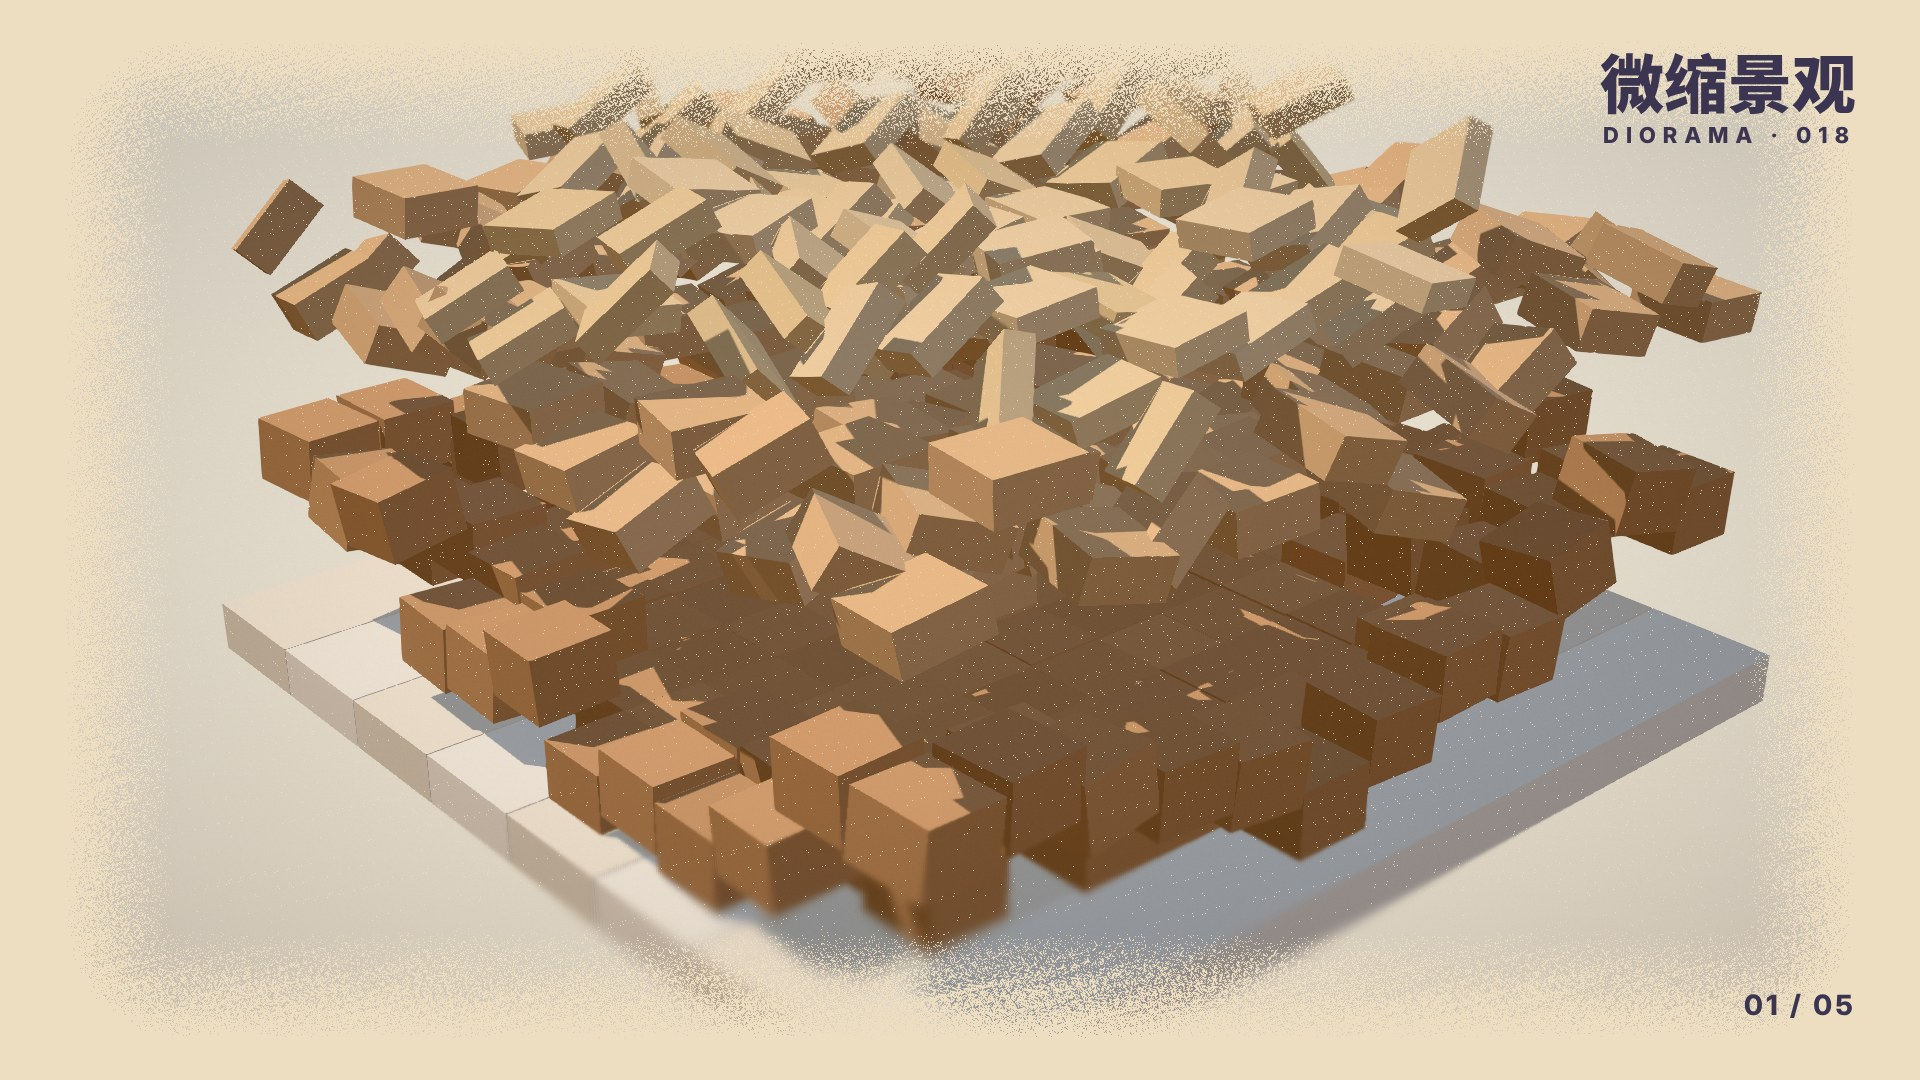
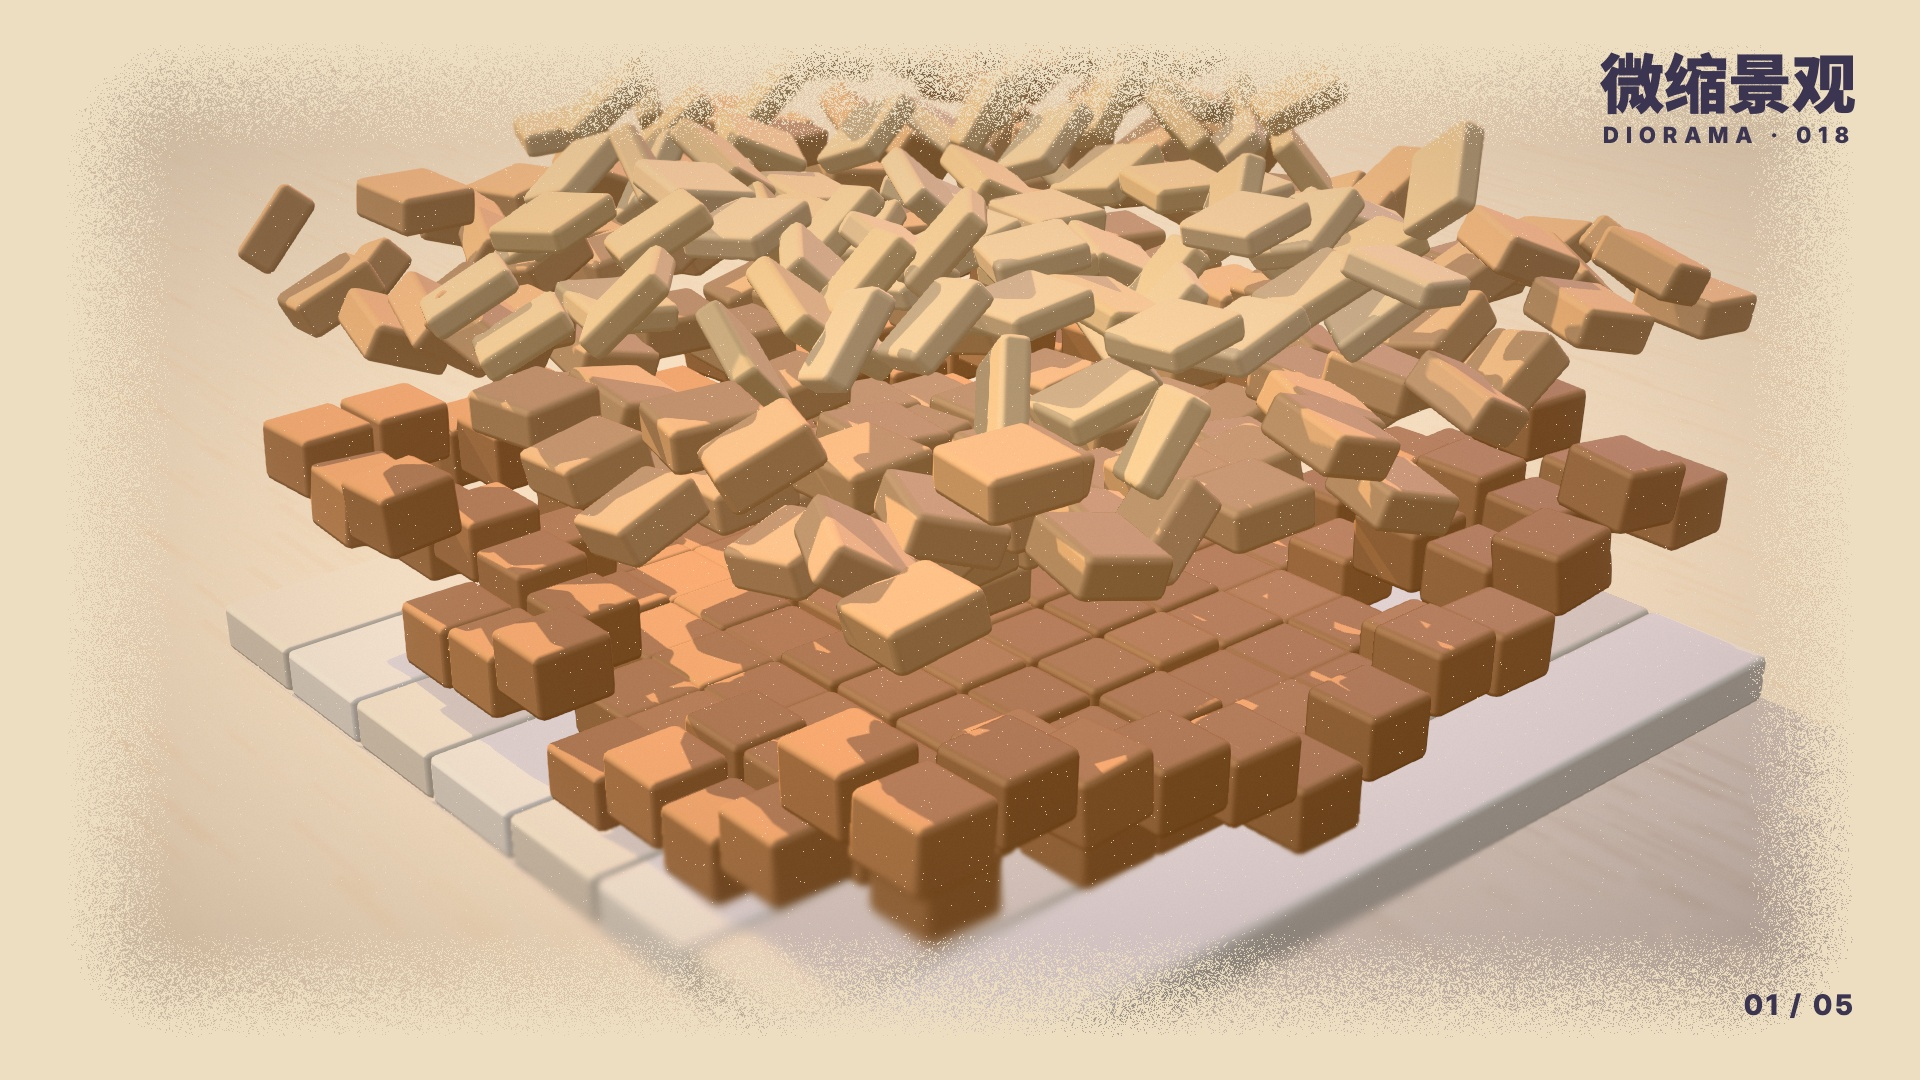
release(018): 准备第三版 60fps 成片与发布入口，保留审片对照待办

diff --git a/docs/reviews/PUBLISH_018_V3_20261102.md b/docs/reviews/PUBLISH_018_V3_20261102.md
@@ -1,0 +1,40 @@
+# 018 微缩景观第三版 · 60fps 渲染与发布记录 · 2026-11-02
+
+## 当前状态
+
+用户明确要求按 `docs/HANDOFF.md` 渲染 60fps 正片并发布 `day-18-v3`。渲染、合成与本地验证已完成；发布包准备中。云端第三版 30fps 审片文件尚未定位，交接要求的原审片文件同秒对照尚未完成。Release 和线上画廊尚未切换，018 待办保留。
+
+## 设计与渲染来源
+
+- 设计来源为 `1606f5c9d10a1f46e67cba1daea1b5aff9f51e46`（`claude/diorama-audio-style-polish-cppqt4`）。本次不修改设计、动画、渲染器或配乐代码。
+- 使用独立工作区，保留主工作区既有未提交修改与创作文件。
+- 通过锁文件安装 Three.js 0.170.0，复用本机 Playwright；字体使用项目声明的 Noto Sans SC 与 Inter。冒烟发现本机缺少 `Inter.ttf`，从项目字体脚本声明的 Google Fonts 来源补齐后重新渲染。新字体仅位于独立工作区。
+- Chromium 实测后端：`ANGLE (Apple, ANGLE Metal Renderer: Apple M5, Unspecified Version)`。
+- `PR=1`、1920×1080、60fps，四个进程分段生成 0—1199 帧；四份 `events.json` 完全一致，日志无页面异常。
+- 使用原 `audio/make_music.py` 和原事件表生成配乐，WAV 为 48kHz 立体声、20 秒，脚本报告 −15.00 LUFS。
+- 按交接参数合成 H.264 / CRF 16 / yuv420p + AAC 256k；无插帧、无调速。
+
+## 成片与检查
+
+- `018-diorama.mp4`：59,232,690 字节，1920×1080、60fps、1200 帧、20 秒，H.264 + AAC、48kHz 立体声。
[1 lines of base64/hex data omitted]
+- FFmpeg 完整解码 1200 帧通过，未检出黑屏段；AAC 解码响度 −15.3 LUFS、真峰值 −1.1 dBTP。
+- 已查看全片 12 张静帧联系表与第 0 帧原尺寸图，封面来自新版第 0 帧；`video/cover.jpg` 与 `video3d/cover.jpg` 字节一致。
+- 内置独立浏览器实际播放至 20 秒结束，1920×1080、20 秒，无媒体错误；英文切换保留影片，英文指南显示 60fps / 1200 帧 / 风格 010。
+- 两项屋面深度与重复电线几何回归通过。根目录 42 项 Node 测试通过（画廊 24、安全 8、动效 10）。
+- 新媒体本地画廊构建与发布检查通过：13 期、183 个文件、1988 个站内引用、441.6 MiB。初次使用符号链接缓存被发布检查拒绝，换成普通文件后通过，未修改发布检查规则。
+
+## 30fps 对照与边界
+
+`origin/review-renders/018` 当前仍为 `68c9191` 的首版（SHA-256 `1ab674…3c29`），不能用作第三版审片参考；GitHub Actions 没有第三版审片附件。已向用户请求第三版审片文件或下载链接。
+
+另从同一设计提交在本机使用 SwiftShader 渲染 30fps 的 0、3、6、9、12、15、18、19.5 秒样帧，与 Metal 60fps 对应帧对照。事件表一致，观察到的场景、镜头与文字位置一致；像素差主要集中在后期纸屑边缘、颗粒与阴影。8 帧 RGB 平均绝对差为 0.7263—11.2927 / 255。这是同源代码的后端抽样检查，不是云端已审成片对照，也不是全片像素一致证明。
+
+原始帧、事件表、渲染与编码日志、FFprobe、完整解码日志、后端差异指标和联系表保存在本工作区 `out/day-18-v3/`，不进入公开源码包。
+
+## 发布准备
+
+- tokens 的 motion / video 同步为 60fps / 1200 帧，时间轴分段与文字帧号换算为 60fps，章节秒数保持 0、4.2、7.8、11.2、14.2、16.4。
+- 本地目录准备切到 `day-18-v3` 与新成片 SHA-256，保留「风格 010」，说明改为第三版缓推房间的结尾；实际发布时间待 Release 创建后填入。
+- 中英文根目录、本期指南与制作过程准备使用新 Release 链接，渲染复现命令对齐 60fps；旧 `day-18-flicker-v2` 保留回退。
+- 待完成：云端审片文件对照、完整源码包核验、`release-assets/day-18-v3/` 推送与 Release 校验、画廊真实发布时间与部署核验、关闭本项交接。

diff --git a/styles/018-diorama/README.md b/styles/018-diorama/README.md
@@ -4,7 +4,7 @@
 
 > **一句话：** 把世界切成一块底座，一块块搭出来，再用移轴把它变小。
 
-🎬 [看视频（Release `day-18-flicker-v2`）](https://github.com/guanmo-ai/design-style/releases/tag/day-18-flicker-v2)· 🛠 [制作过程](PROCESS.md) · 🎞 [分镜](video3d/STORYBOARD.md)
+🎬 [看视频（Release `day-18-v3`）](https://github.com/guanmo-ai/design-style/releases/tag/day-18-v3)· 🛠 [制作过程](PROCESS.md) · 🎞 [分镜](video3d/STORYBOARD.md)
 
 | 海报 | 速查卡 |
 |:-:|:-:|
@@ -69,9 +69,9 @@
 
 ## 5 · 参数
 
-**已发布视频：1920×1080 · 30fps · 600 帧 · 20 秒 · 120 BPM，three.js 渲染。**
+**已发布视频：1920×1080 · 60fps · 1200 帧 · 20 秒 · 120 BPM，three.js 渲染。**
 
-`tokens.json` 与 `process/timeline.json` 记录发布版规格；60fps 可按下方命令另行渲染。
+`tokens.json` 与 `process/timeline.json` 记录 60fps 发布版规格，复现命令见下方。
 - 镜头：长焦 fov 20—24°，俯视约 30°，每章是桌上同一排底座里的下一块，镜头横移过去；镜头走单调三次样条，经过关键帧时速度连续（不再一停一顿）
 - 造型：所有方块是圆角（半径取短边的 28%，最大 0.14）、平滑着色；树冠、灌木、云是一团团软球；小人头大身小。三块底座放在一张铺了纸的桌子上
 - 光（电影布光）：低角度暖色主光拉出长影子 + 冷色天光 + 背后粉色轮廓光 + 摄影棚环境贴图；GTAO 环境光遮蔽（底座搭好后才打开）；入夜 bloom 加强，暖色的窗、小彩灯、路灯成为最亮的东西
@@ -179,13 +179,12 @@ npm run fonts
 
 **渲染命令（从项目根目录开始）：**
 ```bash
-cd styles/018-diorama/video3d && npm i                      # 装 three 0.170
-PR=1 node render.cjs episode.html out 0 599 1920 1080 30    # 30fps 正片（默认 SwiftShader）
-ANGLE_BACKEND=metal PR=1 node render.cjs episode.html out 0 599 1920 1080 30  # Mac GPU，同一画幅与时间轴
+cd styles/018-diorama/video3d && npm ci --ignore-scripts   # 锁定 three 0.170.0
 node --test geometry.test.mjs                            # 屋面深度与重复电线回归检查
-PR=1 node render.cjs episode.html out 0 1199 1920 1080 60   # 60fps（建议用有显卡的机器）
+ANGLE_BACKEND=metal PR=1 node render.cjs episode.html out 0 1199 1920 1080 60  # Mac GPU，60fps 正片
+# 无 Metal 的机器移除 ANGLE_BACKEND=metal，默认使用 SwiftShader；画幅与时间轴相同。
 python3 ../audio/make_music.py out/events.json out/music.wav
-ffmpeg -framerate 30 -i out/f%04d.png -i out/music.wav -c:v libx264 -crf 16 -pix_fmt yuv420p -c:a aac -b:a 256k -shortest 018.mp4
+ffmpeg -framerate 60 -i out/f%04d.png -i out/music.wav -c:v libx264 -crf 16 -pix_fmt yuv420p -c:a aac -b:a 256k -shortest 018-diorama.mp4
 ```
 
 **延伸阅读：** Miniatur Wunderland 官网的“建造日记” · Olivo Barbieri《site specific_》系列 · Vincent Laforet《Tilt-Shift》航拍 · Oskar Stålberg 谈《Townscaper》的程序生成（GDC 2020）

diff --git a/README.md b/README.md
@@ -131,7 +131,7 @@ by 观默 [@guanmo_ai](https://x.com/guanmo_ai)
 | **009** | [**新粗野主义 Neo-Brutalism**](styles/009-neo-brutalism) | 2021—今天 | 黑框描到底，阴影是一块偏移的黑：按下去，就是滑到阴影的位置 | [🎬 视频](https://github.com/guanmo-ai/design-style/releases/tag/day-09-audio-v2) · [🛠 过程](styles/009-neo-brutalism/PROCESS.md) |
 | **013** | [**装饰艺术 Art Deco**](styles/013-art-deco) | 1925—1939 | 先立一条中轴，阶梯、放射、三线从中轴往两边同时长出来；金色只给线 | [🎬 视频](https://github.com/guanmo-ai/design-style/releases/tag/day-13) · [🛠 过程](styles/013-art-deco/PROCESS.md) |
 | **014** | [**液态玻璃 Liquid Glass**](styles/014-liquid-glass) | 2013—今天 | 玻璃不发光，只把后面的东西弯过来：折射量 = 边缘的坡度 | [🎬 视频](https://github.com/guanmo-ai/design-style/releases/tag/day-14) · [🛠 过程](styles/014-liquid-glass/PROCESS.md) |
-| **018** | [**微缩景观 Diorama**](styles/018-diorama) | 1950s—今天 | 把世界切成一块底座，一块块搭出来，再用移轴把它变小 | [🎬 视频](https://github.com/guanmo-ai/design-style/releases/tag/day-18-flicker-v2) · [🛠 过程](styles/018-diorama/PROCESS.md) |
+| **018** | [**微缩景观 Diorama**](styles/018-diorama) | 1950s—今天 | 把世界切成一块底座，一块块搭出来，再用移轴把它变小 | [🎬 视频](https://github.com/guanmo-ai/design-style/releases/tag/day-18-v3) · [🛠 过程](styles/018-diorama/PROCESS.md) |
 | **019** | [**低多边形 Low Poly**](styles/019-low-poly) | 1993—今天 | 一个面，一个颜色：三角面从纸上翻起，拼成山谷、灯塔与小星球 | [🎬 视频](https://github.com/guanmo-ai/design-style/releases/tag/day-19) · [🛠 过程](styles/019-low-poly/PROCESS.md) |
 
 ### 布局方式 · Layout

diff --git a/README.en.md b/README.en.md
@@ -126,7 +126,7 @@ The gallery interface, descriptions, search, and reading pages support **Chinese
 | 009 | [Neo-Brutalism](styles/009-neo-brutalism/README.en.md) | [Production overview](styles/009-neo-brutalism/PROCESS.en.md) | 2021–today |
 | 013 | [Art Deco](styles/013-art-deco/README.en.md) | [Production overview](styles/013-art-deco/PROCESS.en.md) | 1925–1939 |
 | 014 | [Liquid Glass](styles/014-liquid-glass/README.en.md) — Glass bends what is behind it; refraction follows the slope of the edge. | [Production overview](styles/014-liquid-glass/PROCESS.en.md) | 2013–today |
-| 018 | [Diorama](styles/018-diorama/README.en.md) — Build a world on a base, piece by piece; tilt-shift makes it small. [Film](https://github.com/guanmo-ai/design-style/releases/tag/day-18-flicker-v2) | [Production overview](styles/018-diorama/PROCESS.en.md) | 1950s–today |
+| 018 | [Diorama](styles/018-diorama/README.en.md) — Build a world on a base, piece by piece; tilt-shift makes it small. [Film](https://github.com/guanmo-ai/design-style/releases/tag/day-18-v3) | [Production overview](styles/018-diorama/PROCESS.en.md) | 1950s–today |
 | 019 | [Low Poly](styles/019-low-poly/README.en.md) — One face, one colour: triangles flip up from paper into a valley, a lighthouse and a planet. [Film](https://github.com/guanmo-ai/design-style/releases/tag/day-19) | [Production overview](styles/019-low-poly/PROCESS.en.md) | 1993–today |
 
 ### Layouts

diff --git a/styles/018-diorama/README.en.md b/styles/018-diorama/README.en.md
@@ -4,7 +4,7 @@
 
 > **In one line:** cut the world into a block on a base, build it piece by piece, then make it small with tilt-shift.
 
-🎬 [Video (Release `day-18-flicker-v2`)](https://github.com/guanmo-ai/design-style/releases/tag/day-18-flicker-v2) · 🛠 [Process](PROCESS.en.md) · 🎞 [Storyboard](video3d/STORYBOARD.md)
+🎬 [Video (Release `day-18-v3`)](https://github.com/guanmo-ai/design-style/releases/tag/day-18-v3) · 🛠 [Process](PROCESS.en.md) · 🎞 [Storyboard](video3d/STORYBOARD.md)
 
 | Poster | Cheat sheet |
 |:-:|:-:|
@@ -62,7 +62,7 @@ Chinese: **Noto Sans SC** Black · Latin: **Inter** 800. Labels are white on ink
 
 ## 5 · Parameters
 
-Released film: **1920×1080 · 30 fps · 600 frames · 20 seconds**. `tokens.json` and `process/timeline.json` describe this version; 60 fps is an optional render.
+Released film: **1920×1080 · 60 fps · 1200 frames · 20 seconds**. `tokens.json` and `process/timeline.json` describe this released version.
 
 - Camera: long lens, fov 20—24°, about 30° from above; each chapter is the next base on the same table and the camera slides across
 - Camera path: a monotone cubic spline through the key frames, so velocity is continuous and the camera never stops and starts

diff --git a/docs/HANDOFF.md b/docs/HANDOFF.md
@@ -20,6 +20,8 @@
 
 主人反馈“音效和 BGM 不流畅、要丝滑；往电影感 / 顶尖动画电影靠；细节少、建筑僵硬、要圆润”。Claude 已在分支 `claude/diorama-audio-style-polish-cppqt4` 改完画面（圆角平滑造型、电影布光、桌面、几十件带二级动画的小道具、样条镜头、去掉倒带的结尾）和配乐（整首重写），并在云端用软件渲染出 30fps 审片版交给主人。改动说明见 `styles/018-diorama/PROCESS.md` 第 3.5 节。**Codex 只执行渲染和发布，不改设计：**
 
+**2026-11-02 Codex 执行进度：** 用户已明确指令渲染并发布；60fps 正片与本地验证完成，发布包准备中。云端第三版 30fps 审片文件尚未定位，原审片同秒对照、Release 与线上切换待完成。详见 [第三版执行记录](reviews/PUBLISH_018_V3_20261102.md)。
+
 1. 等主人确认第三版审片通过（这里会更新）。
 2. 在 Mac 上用显卡渲 60fps 正片（同一时间轴，每一帧是时间的纯函数）：
    `cd styles/018-diorama/video3d && npm i && node --test geometry.test.mjs`

diff --git a/styles/018-diorama/PROCESS.md b/styles/018-diorama/PROCESS.md
@@ -5,7 +5,7 @@
 > 这一期怎么从几轮候选里被选中，从一个 5 秒的街角小样长成 20 秒短片和配乐——以及每一处“为什么这样动”。
 > 可复现的代码在 `video3d/` `audio/` `images/`，候选和小样在 `drafts/`。
 
-🎬 [看成片（Release `day-18-flicker-v2`）](https://github.com/guanmo-ai/design-style/releases/tag/day-18-flicker-v2)· 📐 [风格指南](README.md) · 🎞 [分镜](video3d/STORYBOARD.md)
+🎬 [看成片（Release `day-18-v3`）](https://github.com/guanmo-ai/design-style/releases/tag/day-18-v3)· 📐 [风格指南](README.md) · 🎞 [分镜](video3d/STORYBOARD.md)
 
 ---
 

diff --git a/styles/018-diorama/PROCESS.en.md b/styles/018-diorama/PROCESS.en.md
@@ -4,6 +4,8 @@
 
 > How this style was picked over several rounds of candidates, and how a 5-second street-corner sample became a 20-second film with a score. Code is in `video3d/`, `audio/` and `images/`; candidates and samples are in `drafts/`.
 
+🎬 [Video (Release `day-18-v3`)](https://github.com/guanmo-ai/design-style/releases/tag/day-18-v3) · [Guide](README.en.md)
+
 ## Overview
 
 | # | Step | Output |
